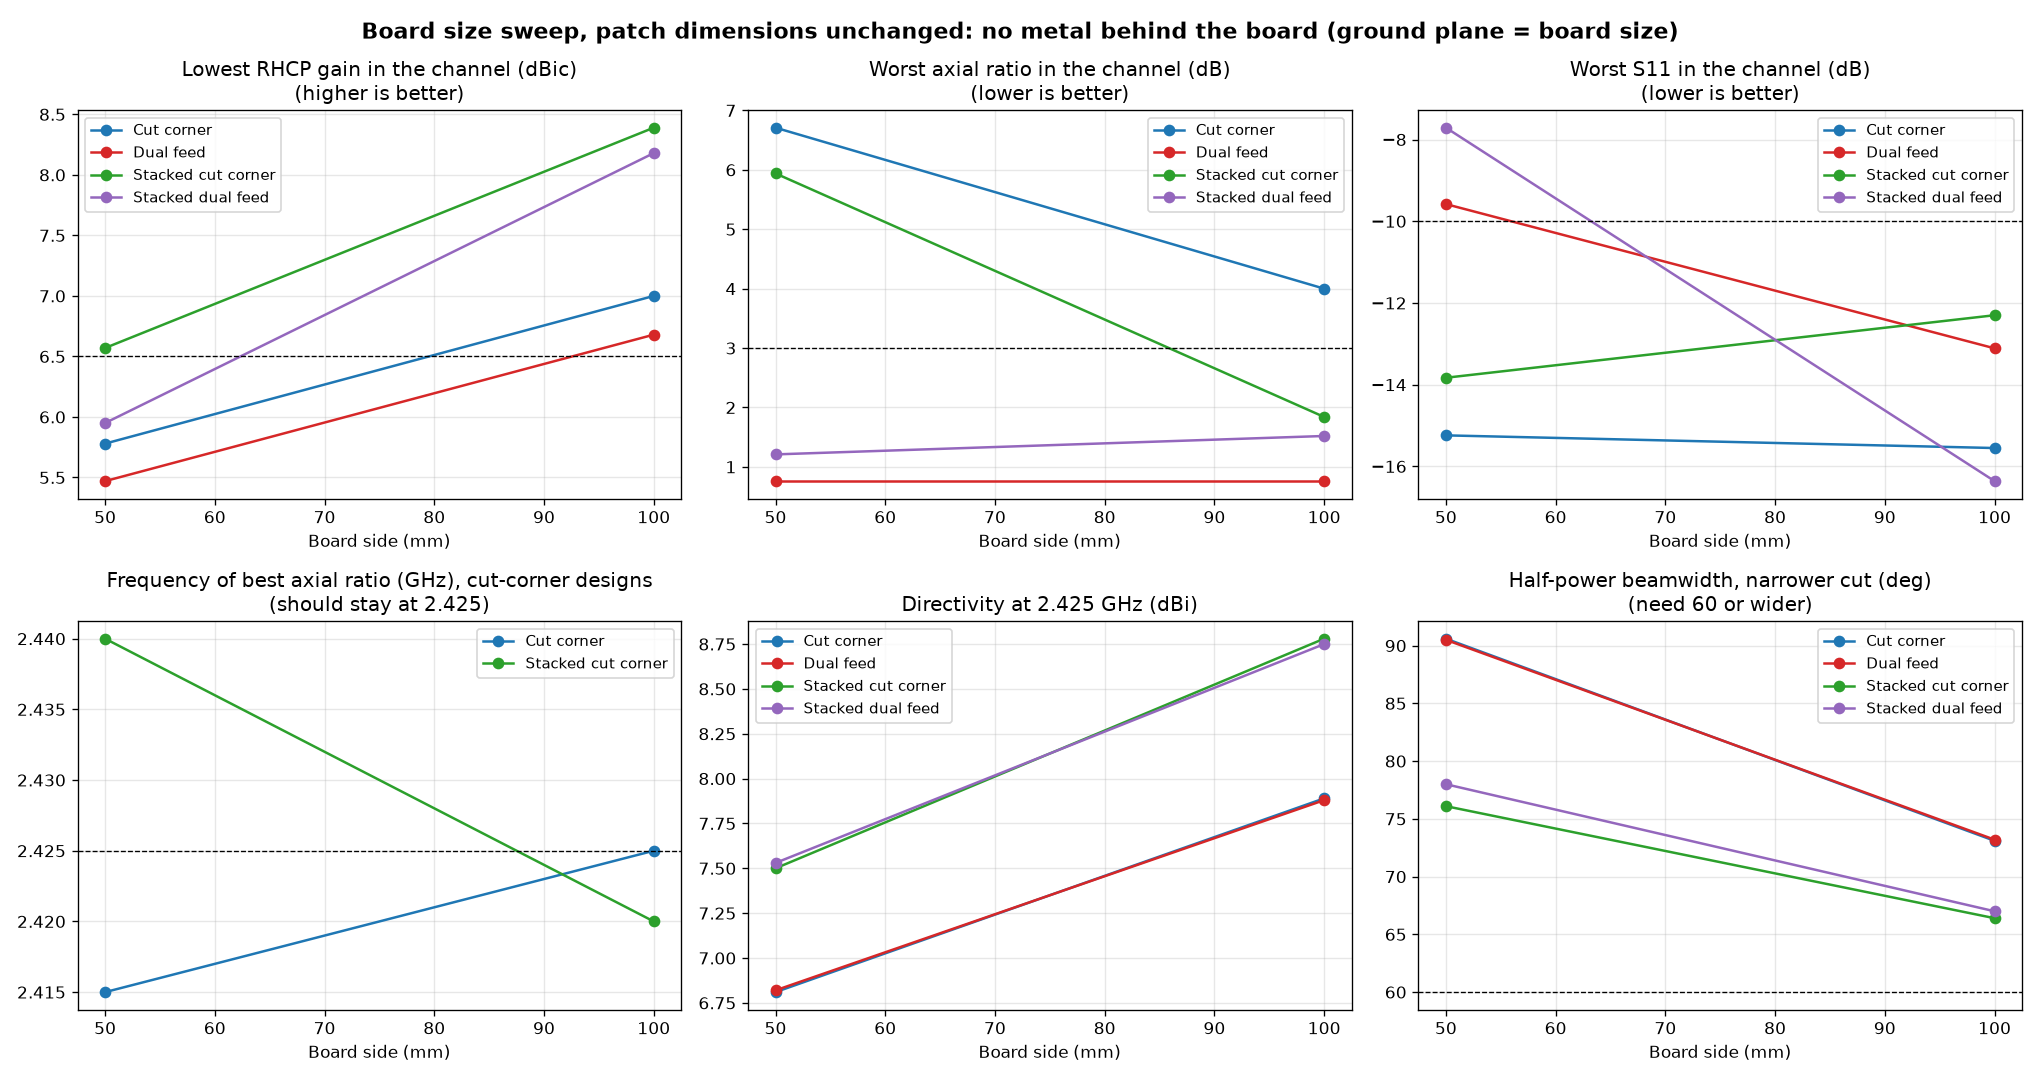
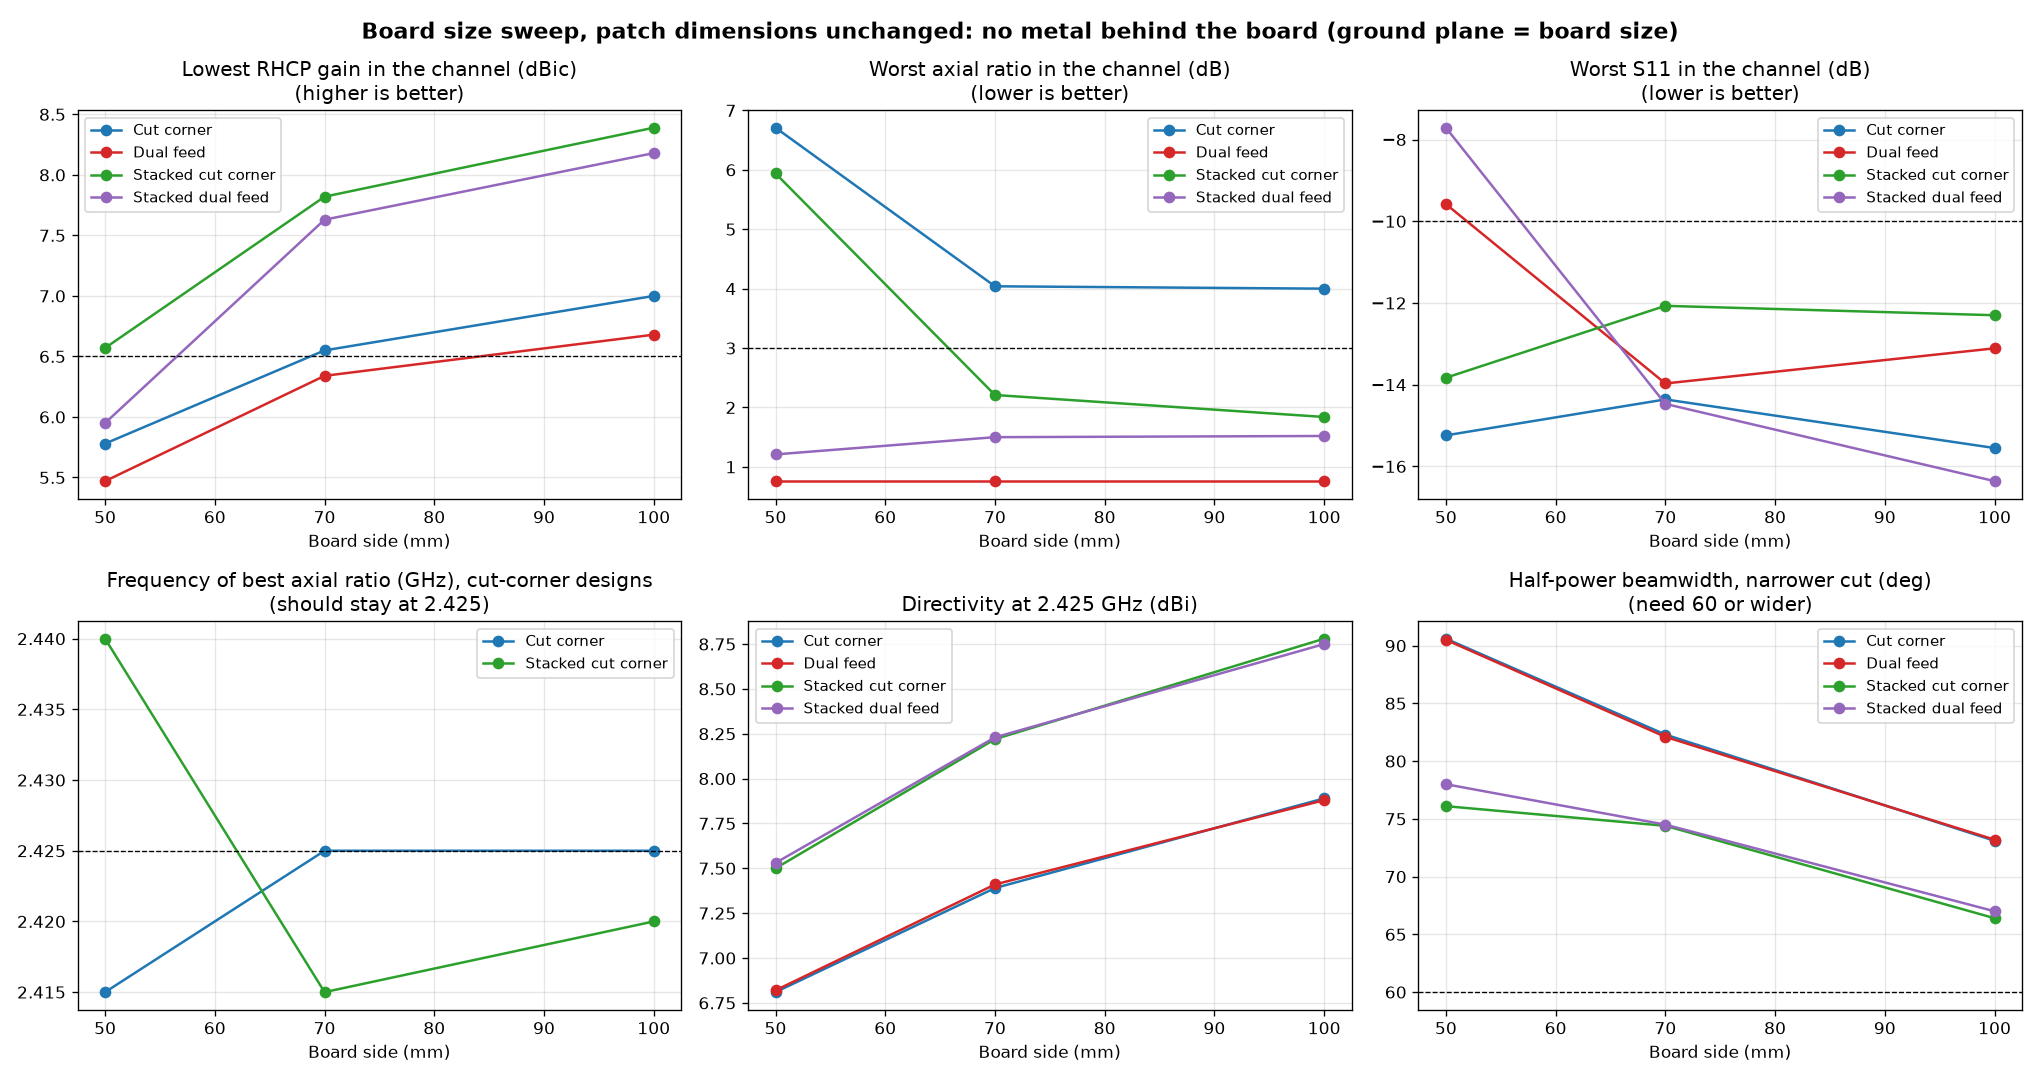
Bare-board size sweep: 70 mm results

diff --git a/sim/results_hfss/sweep_tables.md b/sim/results_hfss/sweep_tables.md
@@ -84,6 +84,7 @@
 | Board side | Worst S11 | Worst axial ratio | Best axial ratio at | 3 dB AR window | RHCP gain in channel | Directivity | Efficiency | Beamwidth | All pass |
 | --- | --- | --- | --- | --- | --- | --- | --- | --- | --- |
 | 50 mm | -15.2 dB | 6.71 dB | 1.42 dB at 2.4150 GHz | 15.8 MHz | 5.78 to 6.14 dBic | 6.81 dBi | 90 % | 91 deg | no |
+| 70 mm | -14.4 dB | 4.04 dB | 1.45 dB at 2.4250 GHz | 15.3 MHz | 6.55 to 6.72 dBic | 7.39 dBi | 89 % | 82 deg | no |
 | 100 mm | -15.6 dB | 4.00 dB | 0.31 dB at 2.4250 GHz | 16.0 MHz | 7.00 to 7.17 dBic | 7.89 dBi | 87 % | 73 deg | no |
 
 **Dual feed** (typical coupler, 0.4 dB coupler loss included)
@@ -91,6 +92,7 @@
 | Board side | Worst S11 | Worst axial ratio | Best axial ratio at | 3 dB AR window | RHCP gain in channel | Directivity | Efficiency | Beamwidth | All pass |
 | --- | --- | --- | --- | --- | --- | --- | --- | --- | --- |
 | 50 mm | -9.6 dB | 0.76 dB | 0.07 dB at 2.4100 GHz | n/a MHz | 5.47 to 5.91 dBic | 6.82 dBi | 89 % | 90 deg | no |
+| 70 mm | -14.0 dB | 0.76 dB | 0.09 dB at 2.4225 GHz | n/a MHz | 6.34 to 6.50 dBic | 7.41 dBi | 89 % | 82 deg | no |
 | 100 mm | -13.1 dB | 0.76 dB | 0.08 dB at 2.4300 GHz | n/a MHz | 6.68 to 6.86 dBic | 7.88 dBi | 87 % | 73 deg | yes |
 
 **Stacked cut corner**
@@ -98,6 +100,7 @@
 | Board side | Worst S11 | Worst axial ratio | Best axial ratio at | 3 dB AR window | RHCP gain in channel | Directivity | Efficiency | Beamwidth | All pass |
 | --- | --- | --- | --- | --- | --- | --- | --- | --- | --- |
 | 50 mm | -13.8 dB | 5.94 dB | 4.21 dB at 2.4400 GHz | n/a MHz | 6.57 to 6.93 dBic | 7.50 dBi | 94 % | 76 deg | no |
+| 70 mm | -12.1 dB | 2.21 dB | 0.42 dB at 2.4150 GHz | 50.8 MHz | 7.82 to 7.83 dBic | 8.22 dBi | 98 % | 74 deg | yes |
 | 100 mm | -12.3 dB | 1.84 dB | 0.75 dB at 2.4200 GHz | 49.5 MHz | 8.39 to 8.42 dBic | 8.78 dBi | 98 % | 66 deg | yes |
 
 **Stacked dual feed** (typical coupler, 0.4 dB coupler loss included)
@@ -105,5 +108,6 @@
 | Board side | Worst S11 | Worst axial ratio | Best axial ratio at | 3 dB AR window | RHCP gain in channel | Directivity | Efficiency | Beamwidth | All pass |
 | --- | --- | --- | --- | --- | --- | --- | --- | --- | --- |
 | 50 mm | -7.7 dB | 1.21 dB | 0.50 dB at 2.4100 GHz | n/a MHz | 5.95 to 6.29 dBic | 7.53 dBi | 94 % | 78 deg | no |
+| 70 mm | -14.5 dB | 1.50 dB | 0.74 dB at 2.3750 GHz | n/a MHz | 7.63 to 7.69 dBic | 8.23 dBi | 98 % | 74 deg | yes |
 | 100 mm | -16.4 dB | 1.52 dB | 0.77 dB at 2.3800 GHz | n/a MHz | 8.18 to 8.22 dBic | 8.75 dBi | 98 % | 67 deg | yes |
 
